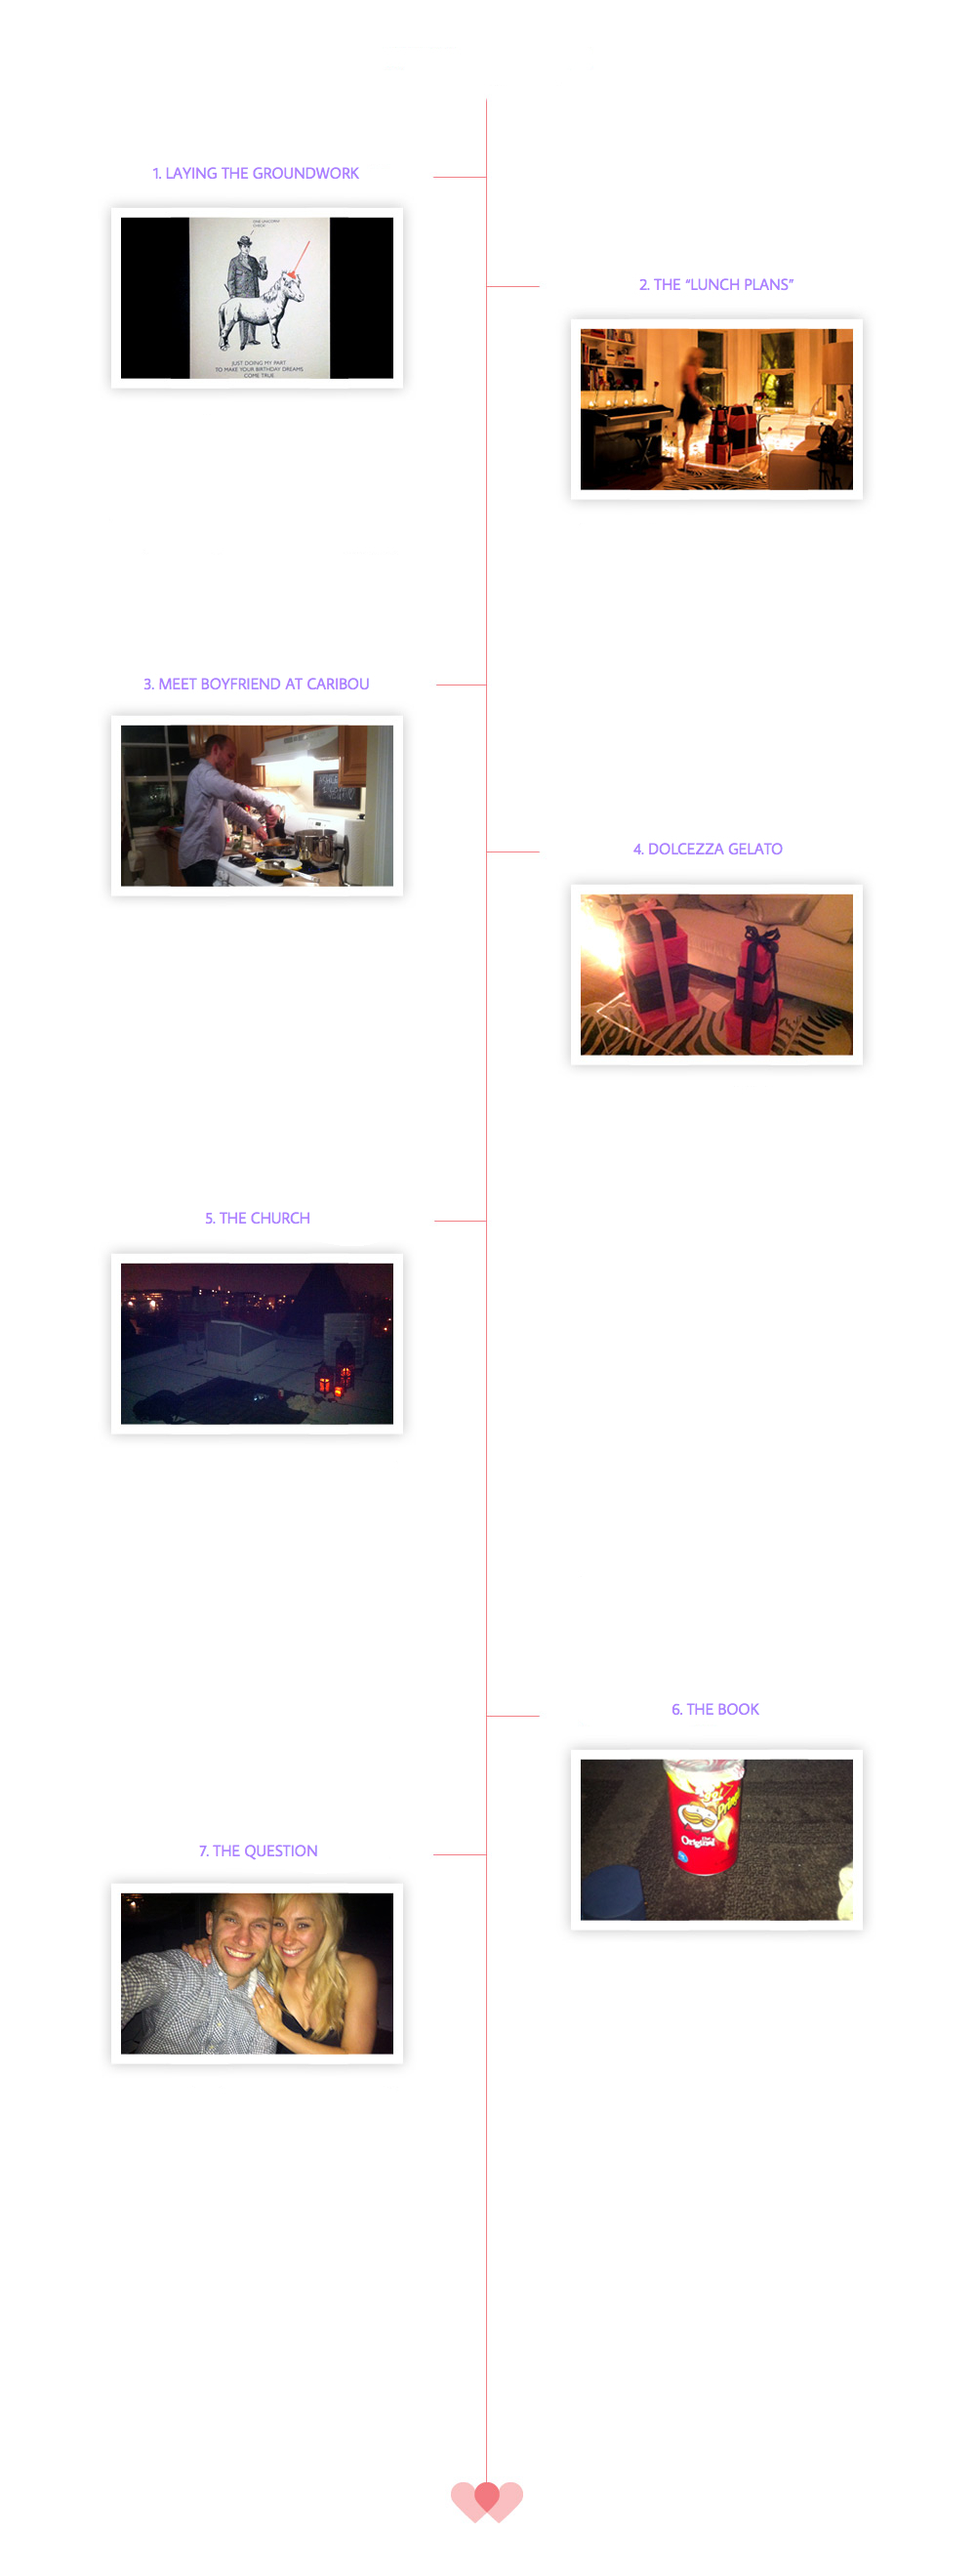
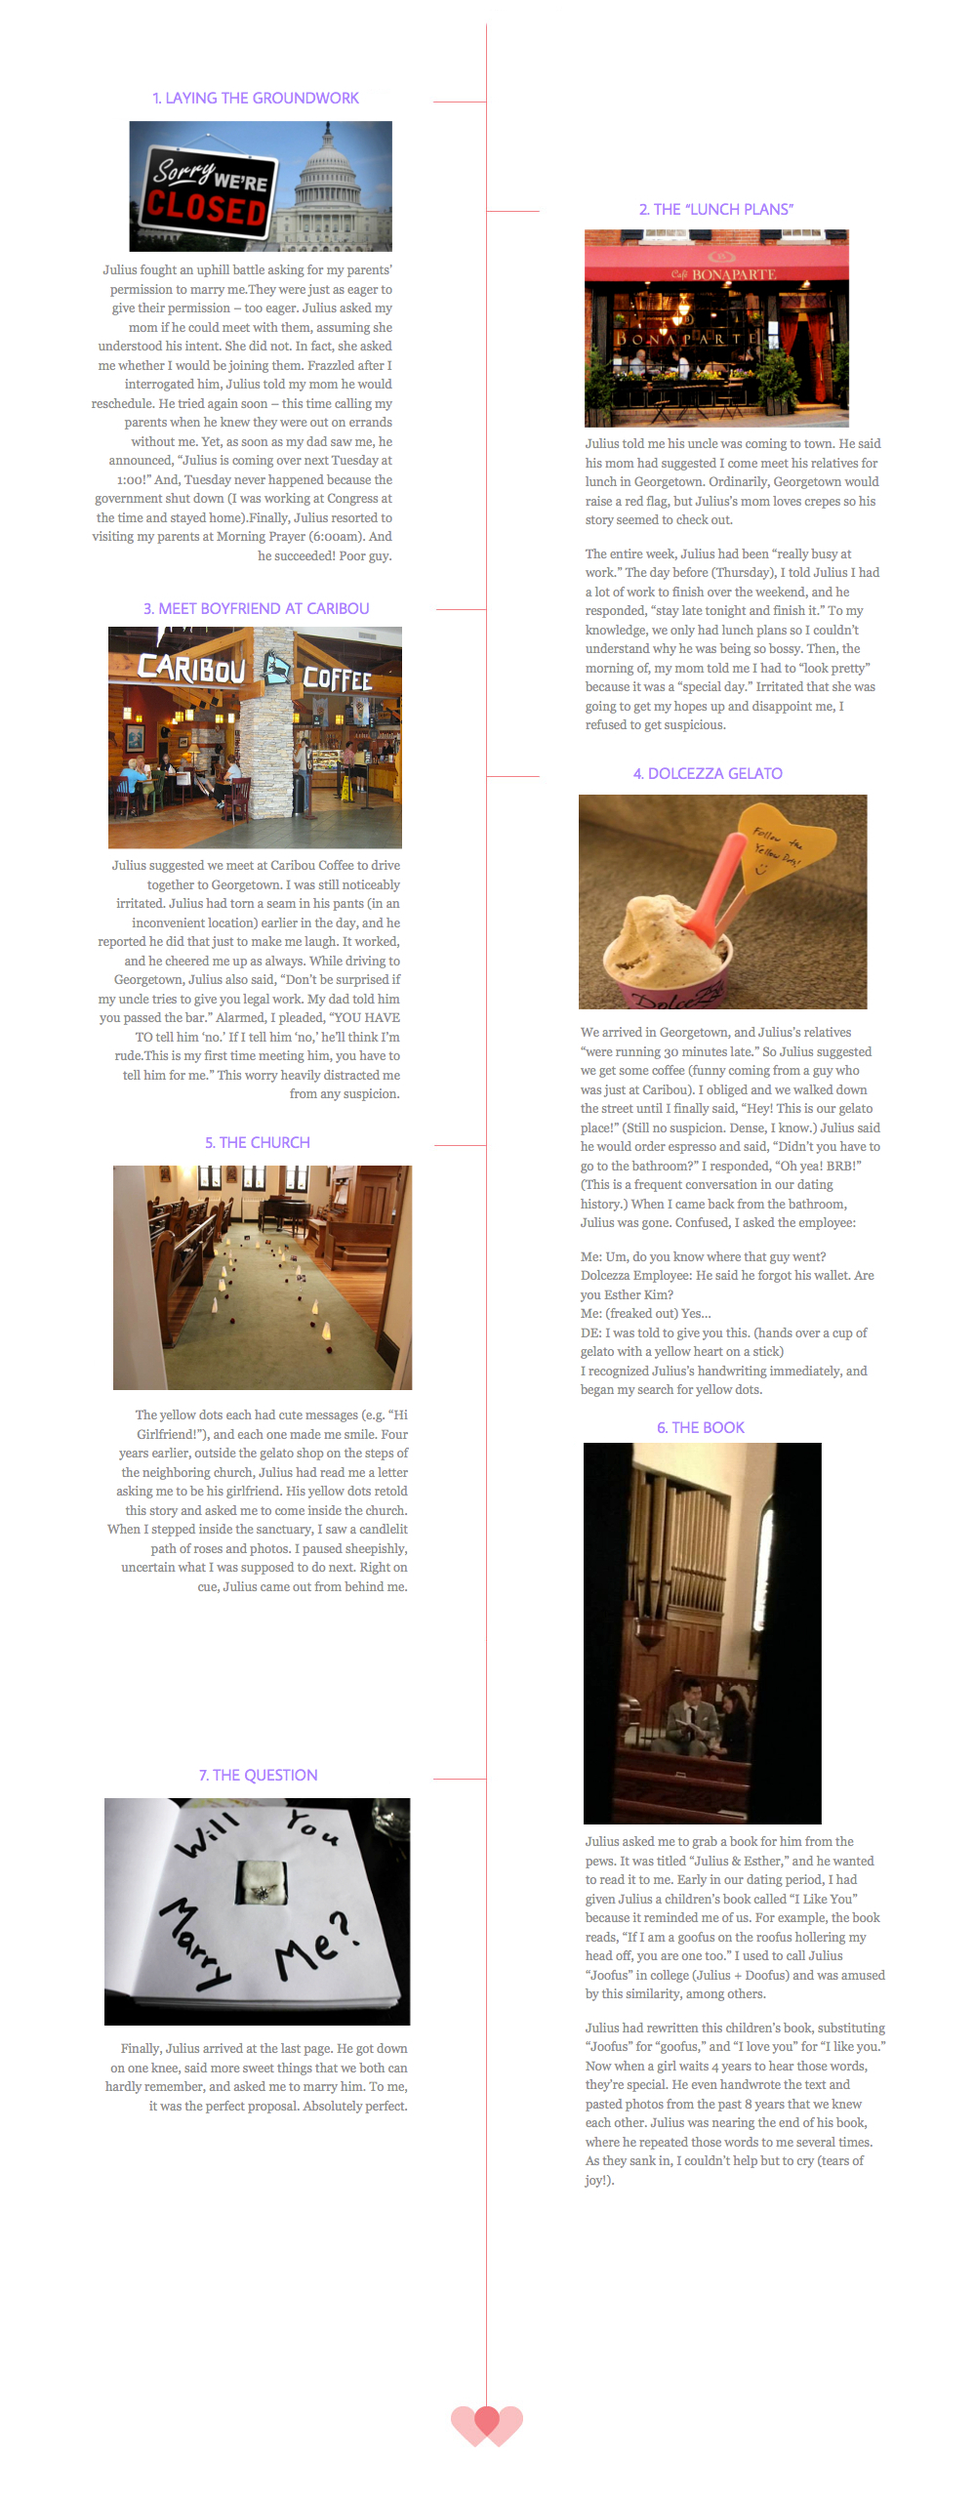
doing crazy timeline changes

Changed region(s): [[0.5896, 0.0625, 0.8999, 0.8747], [0.0931, 0.0312, 0.4344, 0.656], [0.0931, 0.6872, 0.4344, 0.8434]]

diff --git a/secure2aecc21ce57c973d624175017c3f4616 copy.html b/secure2aecc21ce57c973d624175017c3f4616 copy.html
@@ -115,8 +115,137 @@
                     [As told by Esther]
                     </p>
                 </div>
-                <div id="proposal-wrapper">
-                <img width="1000" height="2638" alt="proposal_timeline" src="http://juliusandesther.com/resources/img/proposal-story/proposal-timeline.jpg">
+                <div id="proposal-story">
+                    <div id="proposal-left">
+                        <p id="proposal-section-title">
+                        1.  Laying the Groundwork
+                        </p>
+                        <div id="proposal-section-content">
+                            <p>
+                            Julius fought an uphill battle asking for my parents’ permission to marry me.They were just as eager to give their permission – too eager.  Julius asked my mom if he could meet with them, assuming she understood his intent.  She did not.  In fact, she asked me whether I would be joining them.  Frazzled after I interrogated him, Julius told my mom he would reschedule.  He tried again soon – this time calling my parents when he knew they were out on errands without me.  Yet, as soon as my dad saw me, he announced, “Julius is coming over next Tuesday at 1:00!”  And, Tuesday never happened because the government shut down (I was working at Congress at the time and stayed home).Finally, Julius resorted to visiting my parents at Morning Prayer (6:00am).  And he succeeded!  Poor guy.
+                            </p>
+                        </div>
+                    </div>
+                    <div id="proposal-right">
+                        <div id="proposal-section-image">
+                            <img src="http://juliusandesther.com/resources/img/proposal-story/government-shutdown.png" alt="groundwork" width="400" height="200">
+                        </div>
+                    </div>
+                    <div id="proposal-right">
+                        <p id="proposal-section-title">
+                        2.  The “Lunch Plans”
+                        </p>
+                        <div id="proposal-section-content">
+                            <p>
+                            Julius told me his uncle was coming to town.  He said his mom had suggested I come meet his relatives for lunch in Georgetown.  Ordinarily, Georgetown would raise a red flag, but Julius’s mom loves crepes so his story seemed to check out.
+                            </p>
+                            </br>
+                            <p>
+                            The entire week, Julius had been “really busy at work.”  The day before (Thursday), I told Julius I had a lot of work to finish over the weekend, and he responded, “stay late tonight and finish it.”  To my knowledge, we only had lunch plans so I couldn’t understand why he was being so bossy.  Then, the morning of, my mom told me I had to “look pretty” because it was a “special day.”  Irritated that she was going to get my hopes up and disappoint me, I refused to get suspicious.
+                            </p>
+                        </div>
+                    </div>
+                    <div id="proposal-left">
+                        <div id="proposal-section-image">
+                            <img src="http://juliusandesther.com/resources/img/proposal-story/bonaparte.png" alt="bonaparte" width="300" height="300" >
+                        </div>
+                    </div>
+                    <div id="proposal-left">
+                        <p id="proposal-section-title">
+                        3.  Meet Boyfriend at Caribou
+                        </p>
+                        <div id="proposal-section-content">
+                            <p>
+                            Julius suggested we meet at Caribou Coffee to drive together to Georgetown.  I was still noticeably irritated.  Julius had torn a seam in his pants (in an inconvenient location) earlier in the day, and he reported he did that just to make me laugh.  It worked, and he cheered me up as always.  While driving to Georgetown, Julius also said, “Don’t be surprised if my uncle tries to give you legal work.  My dad told him you passed the bar.”  Alarmed, I pleaded, “YOU HAVE TO tell him ‘no.’ If I tell him ‘no,’ he’ll think I’m rude.This is my first time meeting him, you have to tell him for me.”  This worry heavily distracted me from any suspicion.
+                            </p>
+                        </div>
+                    </div>
+                    <div id="proposal-right">
+                        <div id="proposal-section-image">
+                            <img src="http://juliusandesther.com/resources/img/proposal-story/caribou.png" alt="caribou" width="400" height="300">
+                        </div>
+                    </div>
+                    <div id="proposal-right">
+                        <p id="proposal-section-title">
+                        4.  Dolcezza Gelato
+                        </p>
+                        <div id="proposal-section-content">
+                            <p>
+                            We arrived in Georgetown, and Julius’s relatives “were running 30 minutes late.”  So Julius suggested we get some coffee (funny coming from a guy who was just at Caribou).  I obliged and we walked down the street until I finally said, “Hey! This is our gelato place!” (Still no suspicion. Dense, I know.)  Julius said he would order espresso and said, “Didn’t you have to go to the bathroom?”  I responded, “Oh yea!  BRB!”  (This is a frequent conversation in our dating history.)  When I came back from the bathroom, Julius was gone.  Confused, I asked the employee:
+                            </p>
+                            </br>
+                            <p>
+                            Me: Um, do you know where that guy went?
+                            </p>
+                            <p>
+                            Dolcezza Employee: He said he forgot his wallet.  Are you Esther Kim?
+                            </p>
+                            <p>
+                            Me: (freaked out) Yes…
+                            </p>
+                            <p>
+                            DE: I was told to give you this. (hands over a cup of gelato with a yellow heart on a stick)
+                            </p>
+                            <p>
+                            I recognized Julius’s handwriting immediately, and began my search for yellow dots.
+                            </p>
+                        </div>
+                    </div>
+                    <div id="proposal-left">
+                        <div id="proposal-section-image">
+                            <img src="http://juliusandesther.com/resources/img/proposal-story/gelato.png" alt="gelato" width="400" height="300">
+                        </div>
+                    </div>
+                    <div id="proposal-left">
+                        <p id="proposal-section-title">
+                        5.  The Church
+                        </p>
+                        <div id="proposal-section-content">
+                            <p>
+                            The yellow dots each had cute messages (e.g. “Hi Girlfriend!”), and each one made me smile.  Four years earlier, outside the gelato shop on the steps of the neighboring church, Julius had read me a letter asking me to be his girlfriend.  His yellow dots retold this story and asked me to come inside the church.  When I stepped inside the sanctuary, I saw a candlelit path of roses and photos.  I paused sheepishly, uncertain what I was supposed to do next.  Right on cue, Julius came out from behind me. 
+                            </p>
+                        </div>
+                    </div>
+                    <div id="proposal-right">
+                        <div id="proposal-section-image">
+                            <img src="http://juliusandesther.com/resources/img/proposal-story/church.png" alt="church" width="400" height="300">
+                        </div>
+                    </div>
+                    <div id="proposal-right">
+                        <p id="proposal-section-title">
+                        6.  The Book
+                        </p>
+                        <div id="proposal-section-content">
+                            <p>
+                            Julius asked me to grab a book for him from the pews.  It was titled “Julius & Esther,” and he wanted to read it to me.  Early in our dating period, I had given Julius a children’s book called “I Like You” because it reminded me of us.  For example, the book reads, “If I am a goofus on the roofus hollering my head off, you are one too.”  I used to call Julius “Joofus” in college (Julius + Doofus) and was amused by this similarity, among others. 
+                            </p>
+                        </br>
+                            <p>
+                            Julius had rewritten this children’s book, substituting “Joofus” for “goofus,” and “I love you” for “I like you.”  Now when a girl waits 4 years to hear those words, they’re special.  He even handwrote the text and pasted photos from the past 8 years that we knew each other. Julius was nearing the end of his book, where he repeated those words to me several times.  As they sank in, I couldn’t help but to cry (tears of joy!).
+                            </p> 
+                        </div>
+                    </div>
+                    <div id="proposal-left">
+                        <div id="proposal-section-image">
+                            <img src="http://juliusandesther.com/resources/img/proposal-story/book.png" alt="book" width="220" height="300">
+                        </div>  
+                    </div>    
+                    <div id="proposal-left">          
+                        <p id="proposal-section-title">
+                        7.  The Question 
+                        </p>
+                        <div id="proposal-section-content">                    
+                            <p>
+                            Finally, Julius arrived at the last page.  He got down on one knee, said more sweet things that we both can hardly remember, and asked me to marry him.  To me, it was the perfect proposal.  Absolutely perfect.  
+                            </p>
+
+                        </div>
+                    </div>
+                    <div id="proposal-right">
+                        <div id="proposal-section-image">
+                            <img src="http://juliusandesther.com/resources/img/proposal-story/question.png" alt="question" width="400" height="300">
+                        </div>
+                    </div>
 
                     <div id="proposal-thanks">
                         <p>

diff --git a/resources/stylesheet/index-style copy.css b/resources/stylesheet/index-style copy.css
@@ -499,11 +499,49 @@ img.image_box1_content {
 	text-align: center;	
 }
 
-#proposal-wrapper{
-	height: 2700px;
-	width: 1000px;
+#proposal-section-title{
+	font-family: 'Average Sans', sans-serif;
+	color: #AD85FF;
+	text-transform: uppercase;
+	text-align: center;
+	float: left;
+	display: block;
+}
+
+#proposal-story{
+	width: 1100px;
+	height: 3000px;
 	margin-left: auto;
 	margin-right: auto;
+}
+
+#proposal-section-content{
+	font-size: 13px;
+}
+
+#proposal-section-image{
+	/*background: url("http://juliusandesther.com/resources/img/bg-photo-frame.png") no-repeat;*/
+	background-size: 300px 300px;
+	margin-left: 45px;
+}
+
+#proposal-right{
+	float: right;
+	width: 400px;
+	margin-left: 50px;
+	height: 600px;
+	display: block;
+	text-align: left;
+}
+
+#proposal-left{
+	float: left;
+	width: 400px;
+	margin-left: 50px;
+	height: 600px;
+	display: block;
+	text-align: right;
+
 }
 
 #proposal-thanks{
